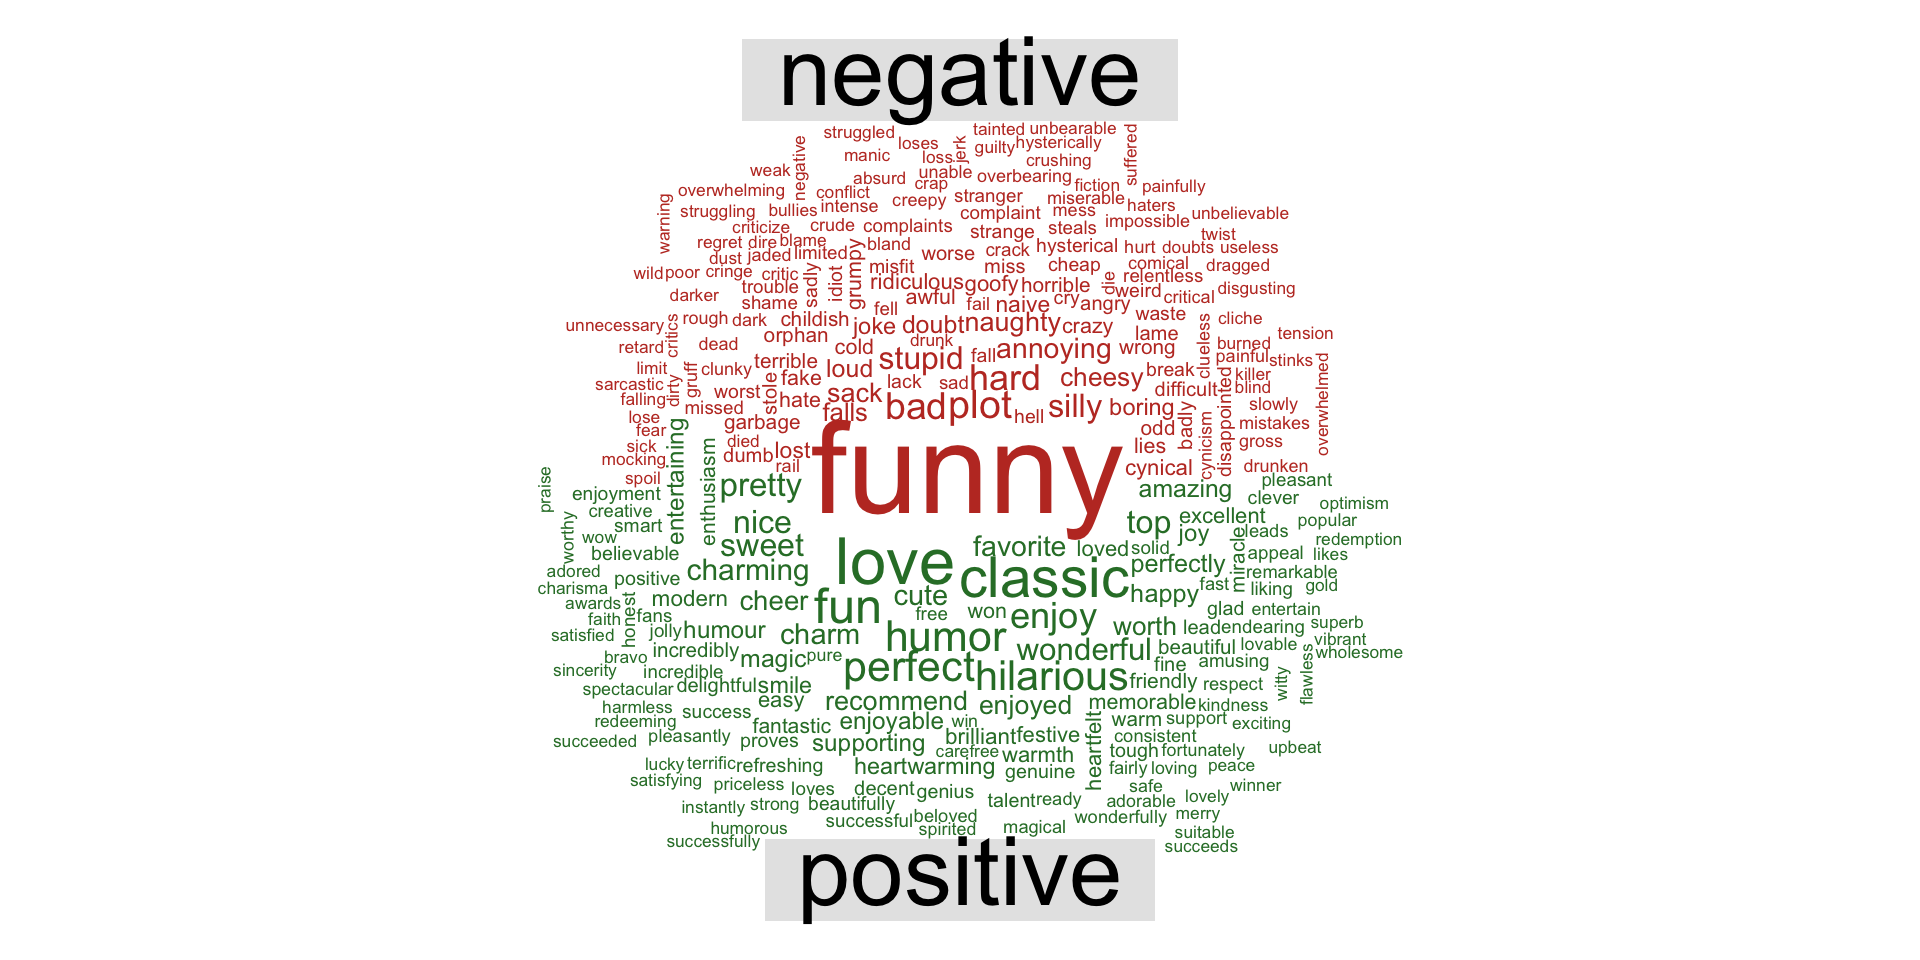
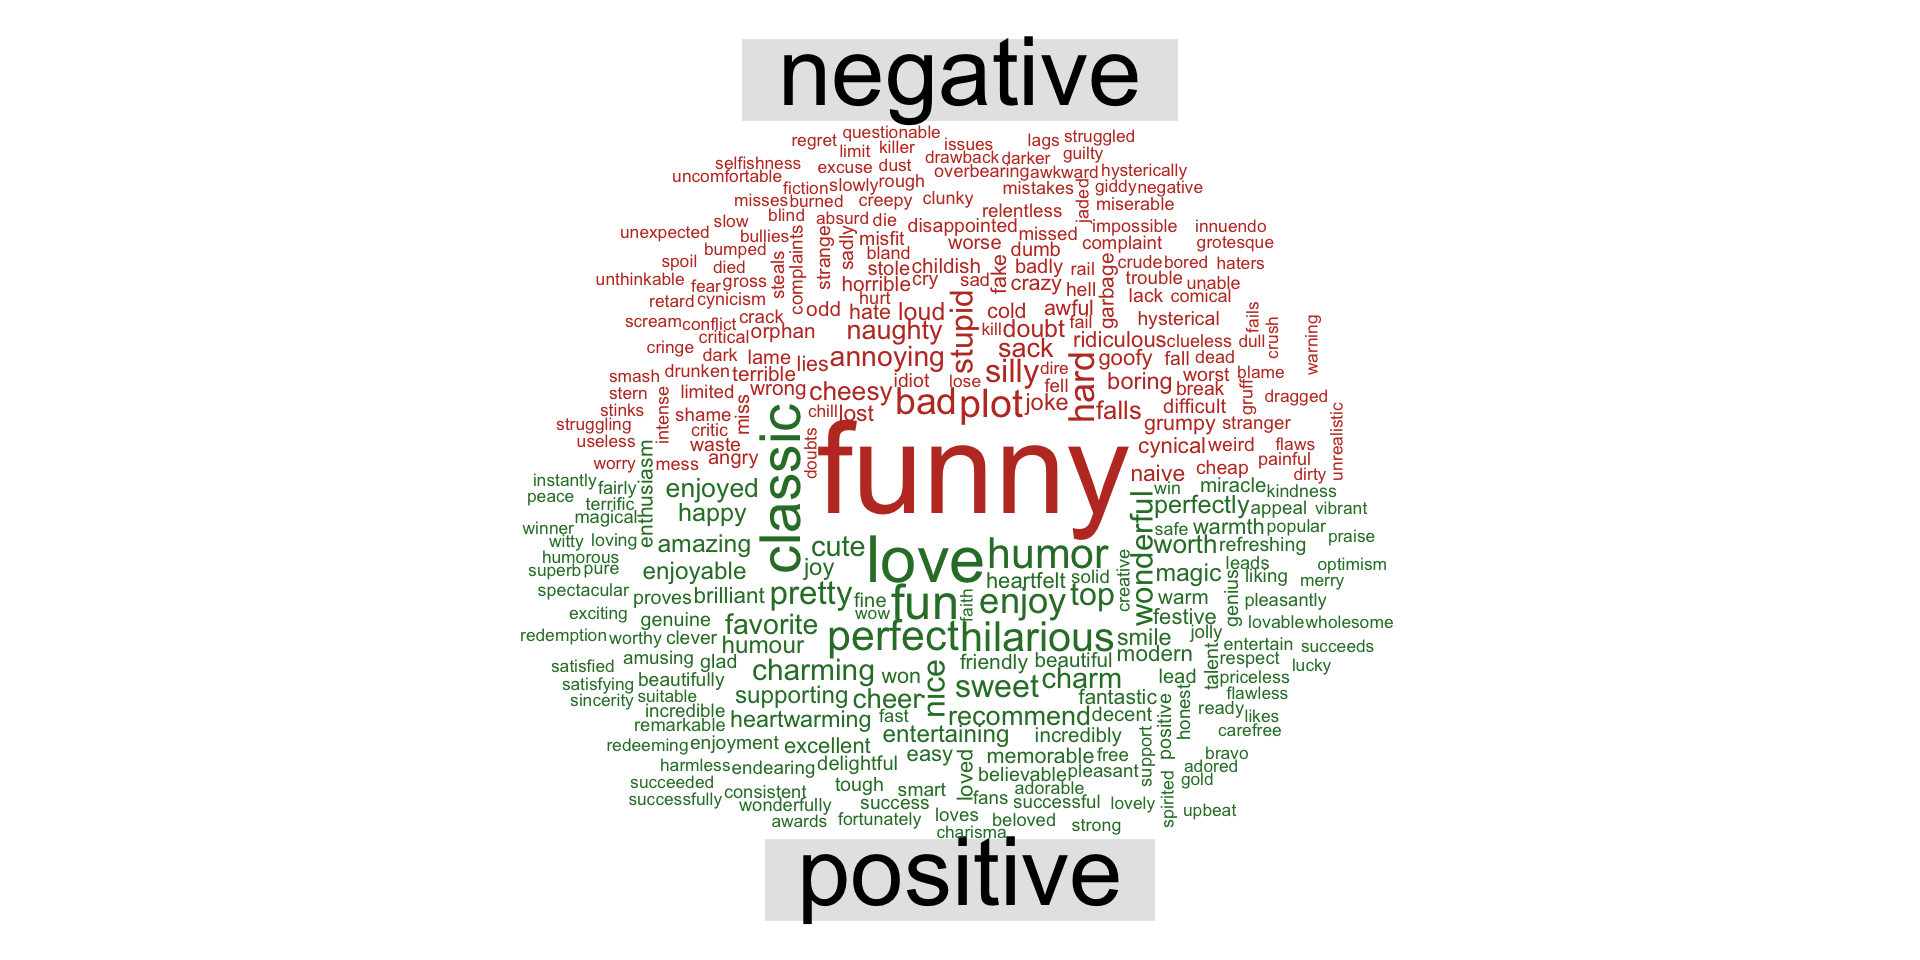
updated slide code highlighting

Changed region(s): [[0.2812, 0.125, 0.7188, 0.9062]]

diff --git a/index.html b/index.html
@@ -543,7 +543,7 @@ Randi Bolt
 <section id="step-5-prepare-data-for-model" class="slide level2">
 <h2>Step 5: Prepare Data for Model</h2>
 <div class="cell">
-<div class="sourceCode cell-code" id="cb8" data-code-line-numbers="1|2|3-5|6-8"><pre class="sourceCode numberSource r number-lines code-with-copy"><code class="sourceCode r"><span id="cb8-1"><a href=""></a><span class="fu">library</span>(stm)</span>
+<div class="sourceCode cell-code" id="cb8" data-code-line-numbers="1|2|3-5|6-8|5|6-8"><pre class="sourceCode numberSource r number-lines code-with-copy"><code class="sourceCode r"><span id="cb8-1"><a href=""></a><span class="fu">library</span>(stm)</span>
 <span id="cb8-2"><a href=""></a>stm_data <span class="ot">&lt;-</span> <span class="cf">function</span>(tokenize_data) {</span>
 <span id="cb8-3"><a href=""></a>  dtm <span class="ot">&lt;-</span> tokenize_data <span class="sc">|&gt;</span></span>
 <span id="cb8-4"><a href=""></a>    <span class="fu">count</span>(row_id, word) <span class="sc">|&gt;</span></span>